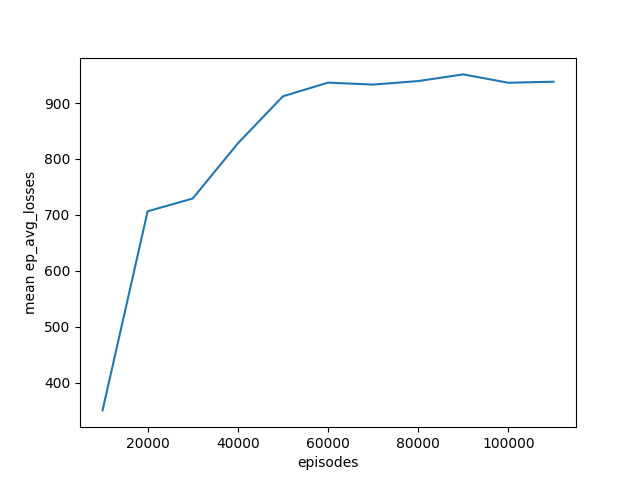
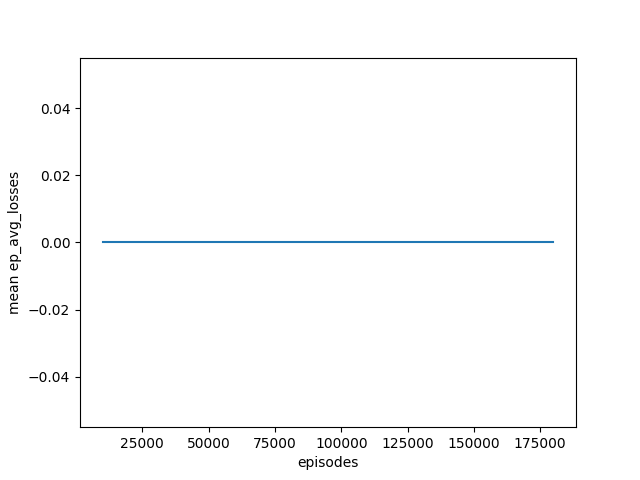
stuff

diff --git a/agent.py b/agent.py
@@ -8,7 +8,7 @@ import numpy as np
 import time
 from tqdm import tqdm
 
-from stable_baselines3.common.vec_env import SubprocVecEnv
+from stable_baselines3.common.vec_env import SubprocVecEnv, DummyVecEnv
 
 from model import DuelingDQN
 from wrappers import *
@@ -26,8 +26,7 @@ def make_env ():
 
 class DQNAgent:
   def __init__(self):
-    self.n_envs = 8
-    self.env = SubprocVecEnv([make_env() for _ in range(self.n_envs)])
+    self.env = make_mario("SuperMarioBros-1-1-v3", COMPLEX_MOVEMENT)
   
     self.n_episodes = hp.N_EPISODES
     self.alpha = hp.ALPHA 
@@ -37,6 +36,18 @@ class DQNAgent:
     self.batch_size = hp.BATCH_SIZE 
     self.min_exp = hp.MIN_EXP 
     self.target_update_freq = hp.TARGET_UPDATE_FREQ 
+    print(f"""
+            === Hyperparameters ===
+            Episodes:             {self.n_episodes}
+            Learning rate (alpha): {self.alpha}
+            Discount factor (gamma): {self.gamma}
+            Epsilon decay:         {self.decay}
+            Replay buffer size:    {self.memory_size}
+            Batch size:            {self.batch_size}
+            Min experiences:       {self.min_exp}
+            Target update freq:    {self.target_update_freq}
+            ============================
+            """)
 
     self.input_shape = self.env.observation_space.shape[1:]
     self.n_actions = self.env.action_space.n
@@ -89,9 +100,10 @@ class DQNAgent:
     """
     # Pick best action with DQN 
     state = tensor(np.float32(state)).to(device)
-    q_value = self.model(state)
-    action = q_value.argmax(dim=1)
-    return action.tolist()
+    with torch.no_grad():
+      q_value = self.model(state)
+      action = q_value.argmax(dim=1)
+    return action.cpu().numpy()
 
   def train(self):
     """
@@ -101,39 +113,56 @@ class DQNAgent:
     for episode in tqdm(range(self.n_episodes)):
       distance = 0
 
+      past_x_positions = np.zeros(self.n_envs, dtype=np.int)
+
       current_state = self.env.reset()
       done = [False] * self.n_envs
       while not all(done):
         step += self.n_envs
 
+        for i in range(self.n_envs):
+            if done[i]:
+                next_state[i] = self.env.env_method("reset", indices=i)[0]
+                past_x_positions[i] = 0
+            
         action = self.select_action(current_state)
         next_state, reward, done, info = self.env.step(action)
-        
+
+        x_positions = np.array([i['x_pos'] for i in info])
+        for i in range(self.n_envs):
+            if not done[i] and x_positions[i] == past_x_positions[i]:
+                next_state[i] = self.env.env_method("reset", indices=i)[0]
+                done[i] = True
+            else:
+                past_x_positions[i] = x_positions[i]
+
         for i in range(self.n_envs):
           experience = Experience(current_state[i], action[i], reward[i], next_state[i], done[i])
           self.replay_memory.push(experience)
         current_state = next_state
 
         if (self.replay_memory.length() < self.min_exp):
+          print(self.replay_memory.length())
           continue
 
         # Sync target with main 
         if (step % self.target_update_freq) == 0:
           self.target_model.load_state_dict(self.model.state_dict())
 
-        if (step % 4*self.n_envs) == 0:
+        if (step % 4) == 0:
           minibatch = self.replay_memory.sample_batch(self.batch_size)
           q_value, loss = self.update_model(minibatch)
         else:
           q_value, loss = None, None
 
         distance = max([inf['x_pos'] for inf in info] + [distance])
-        self.logger.log_step(reward, distance, q_value, loss)
+        self.logger.log_step(reward.sum(), distance, q_value, loss)
         
       self.logger.log_episode()
-      if (episode % self.target_update_freq) == 0 and episode != 0:
+      if (episode % 5) == 0 and episode != 0 and (self.replay_memory.length() > self.min_exp):
+        print('distance', distance)
         torch.save(self.model.state_dict(), "pretrained_models/model_%d.pth" % episode)
-        self.logger.record(episode, 1, step) 
+        self.logger.record(episode, step) 
     
   def play(self):
     """

diff --git a/logger.py b/logger.py
@@ -48,9 +48,9 @@ class Logger():
     # Reset
     self.init_episode()
     
-  def record(self, episode, epsilon, step):
+  def record(self, episode, step):
     n = TARGET_UPDATE_FREQ
-    mean_ep_reward = np.round(np.mean(self.ep_rewards[-n:]), 3)
+    mean_ep_reward = float(np.round(np.mean(self.ep_rewards[-n:]), 3))
     mean_ep_distance = np.round(np.mean(self.ep_distances[-n:]), 3)
     mean_ep_avg_loss = np.round(np.mean(self.ep_avg_losses[-n:]), 3) 
     mean_ep_avg_q = np.round(np.mean(self.ep_avg_qs[-n:]), 3)
@@ -69,10 +69,14 @@ class Logger():
     with open(filename, 'wb') as wfp:
       pickle.dump(log, wfp)
 
+    #print('in logger', type(episode), type(step))
+    #print("ep_rewards[-n:]", self.ep_rewards[-n:])
+    #print("mean_ep_reward raw:", np.mean(self.ep_rewards[-n:]))
+
     # And just to see
     with open("data/updatelog", "a") as fp:
       fp.write(
-        f"{episode:8d}{step:14d}{epsilon:8.3f}"
+        f"{episode:8d}{step:14d}"
         f"{mean_ep_reward:12.3f}{mean_ep_distance:12.3f}{mean_ep_avg_loss:12.3f}{mean_ep_avg_q:12.3f}"
         f"{tf:>12}\n"
       )

diff --git a/hyperparameters.py b/hyperparameters.py
@@ -1,10 +1,10 @@
-N_EPISODES = 400000
+N_EPISODES = 100000
 ALPHA = 0.00025
 EPSILON_START = 1.0 
 EPSILON_FINAL = 0.01
 DECAY = 10**6 #14**6
 GAMMA = 0.99
-MEMORY_SIZE = 40000
-BATCH_SIZE = 32
-MIN_EXP = 10000
+MEMORY_SIZE = 500000
+BATCH_SIZE = 1024
+MIN_EXP = 50000
 TARGET_UPDATE_FREQ = 10000
